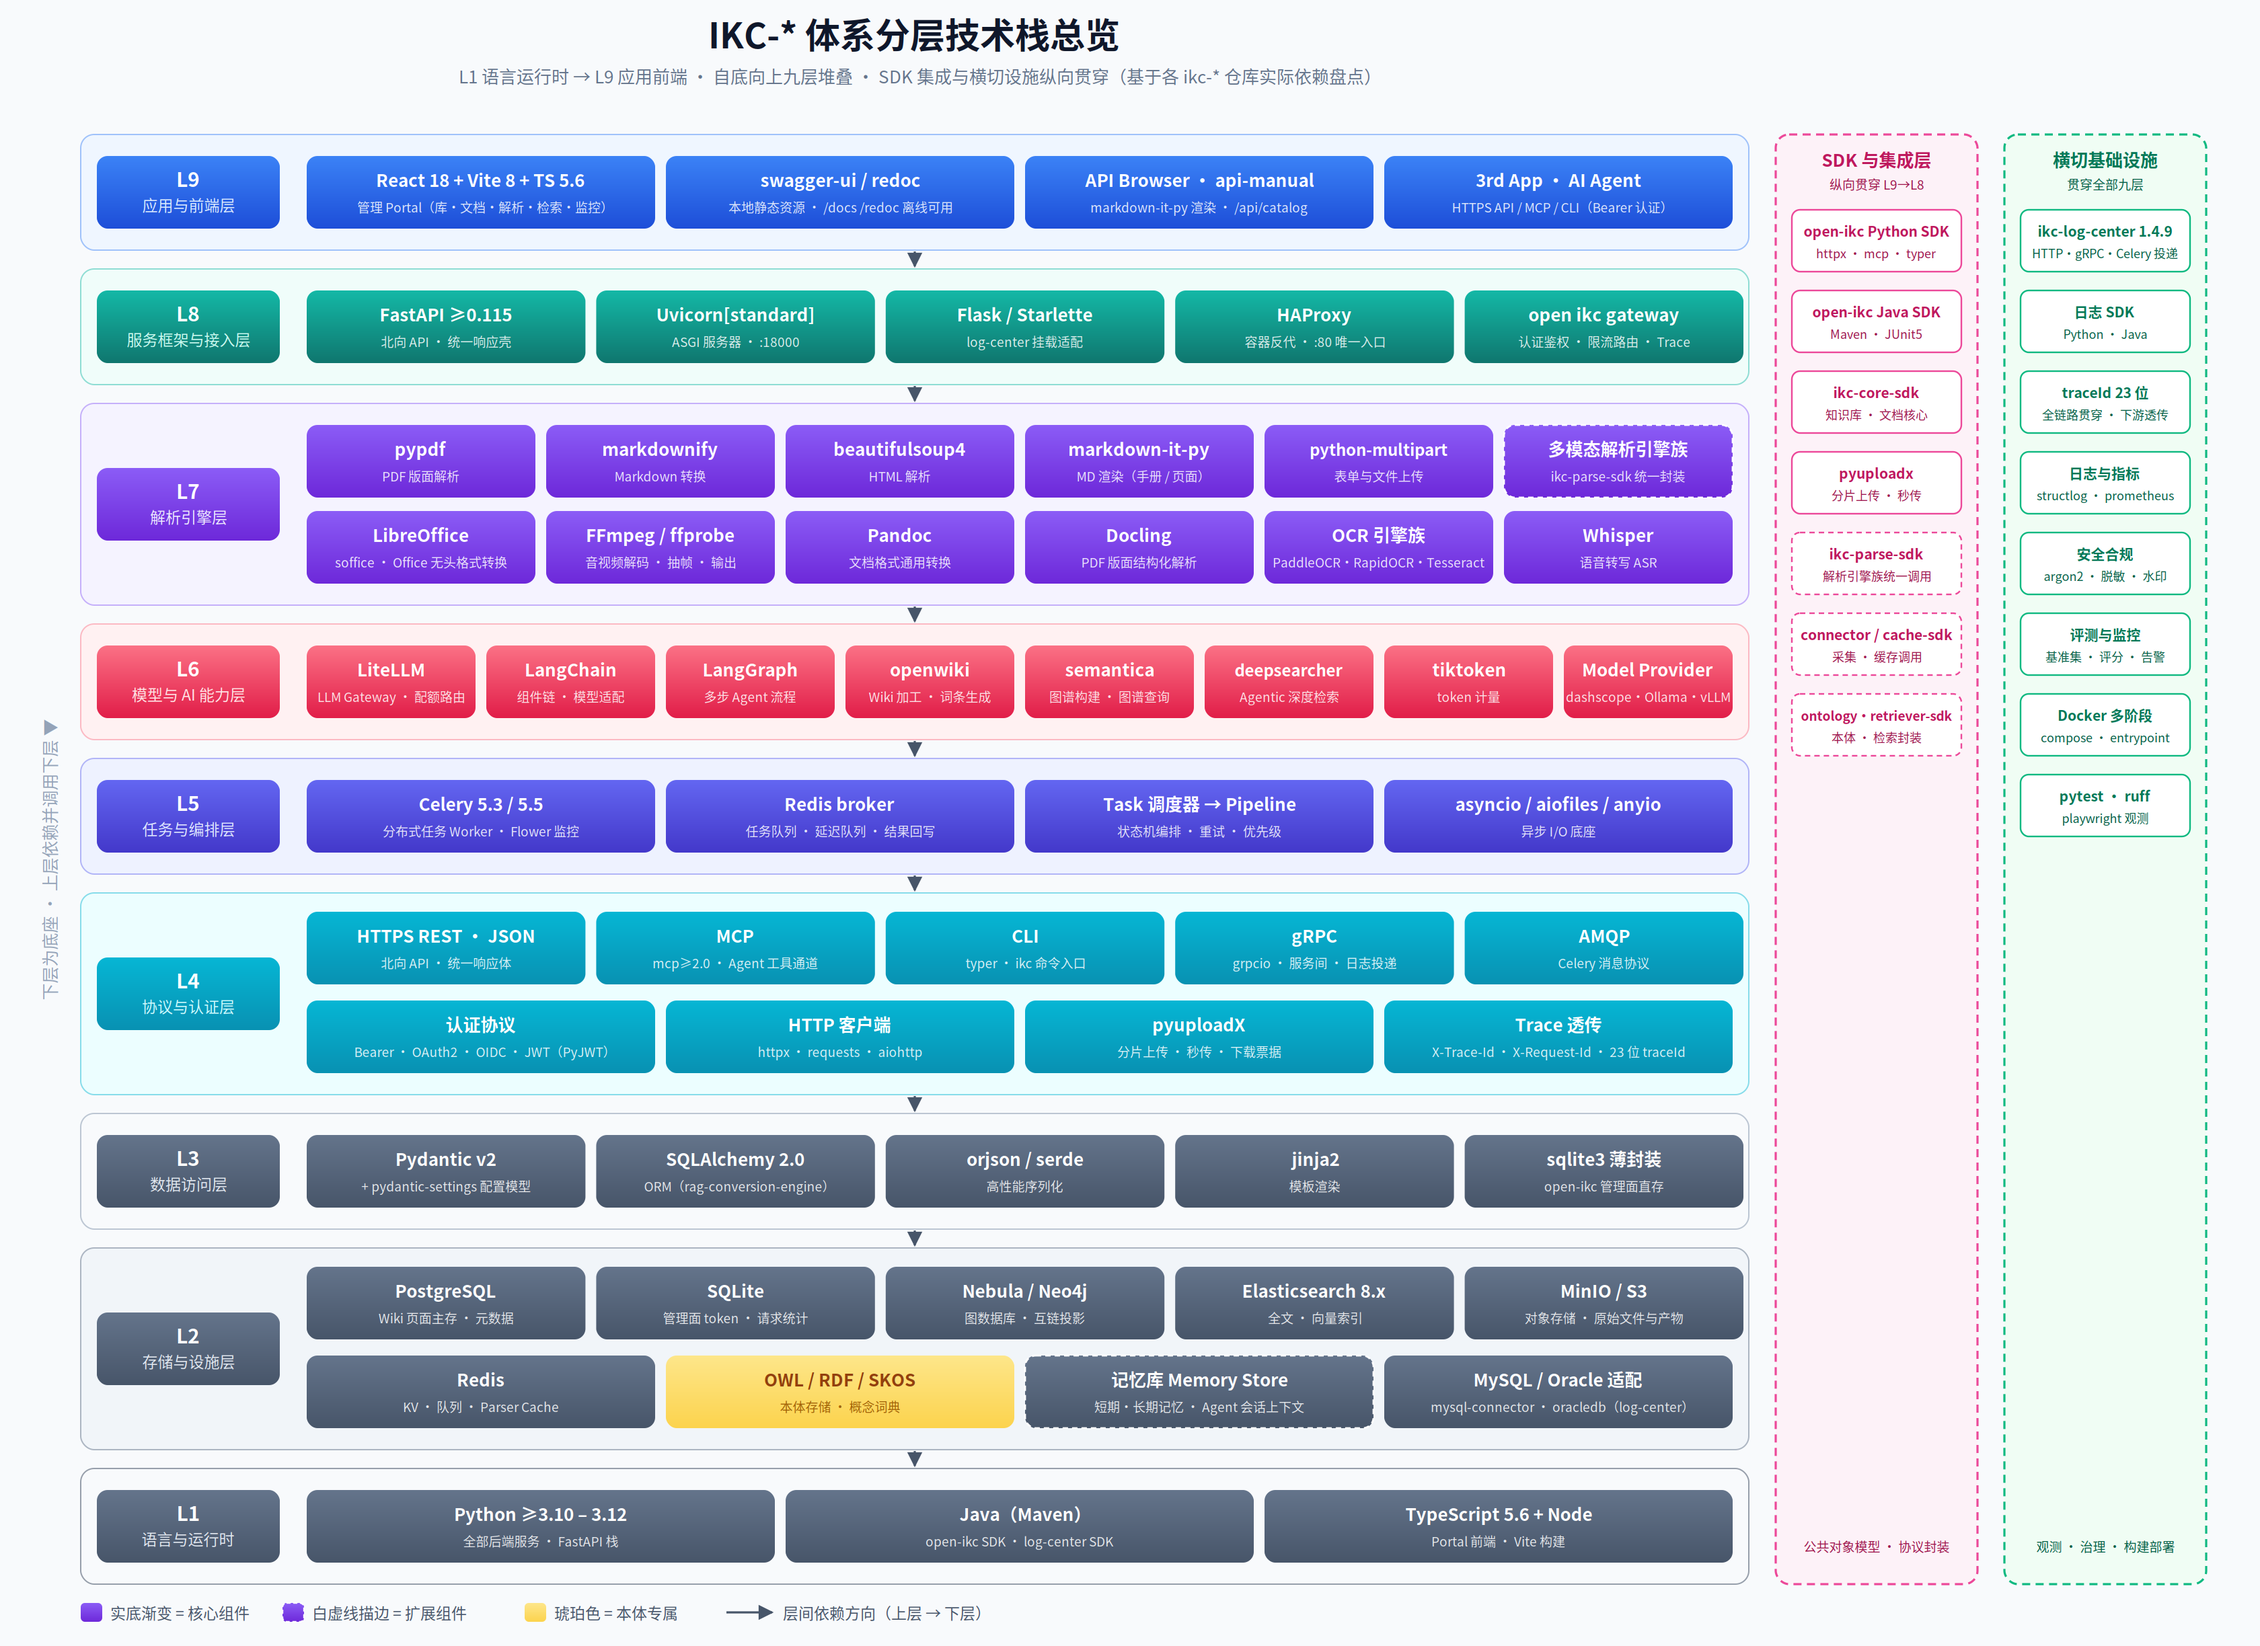
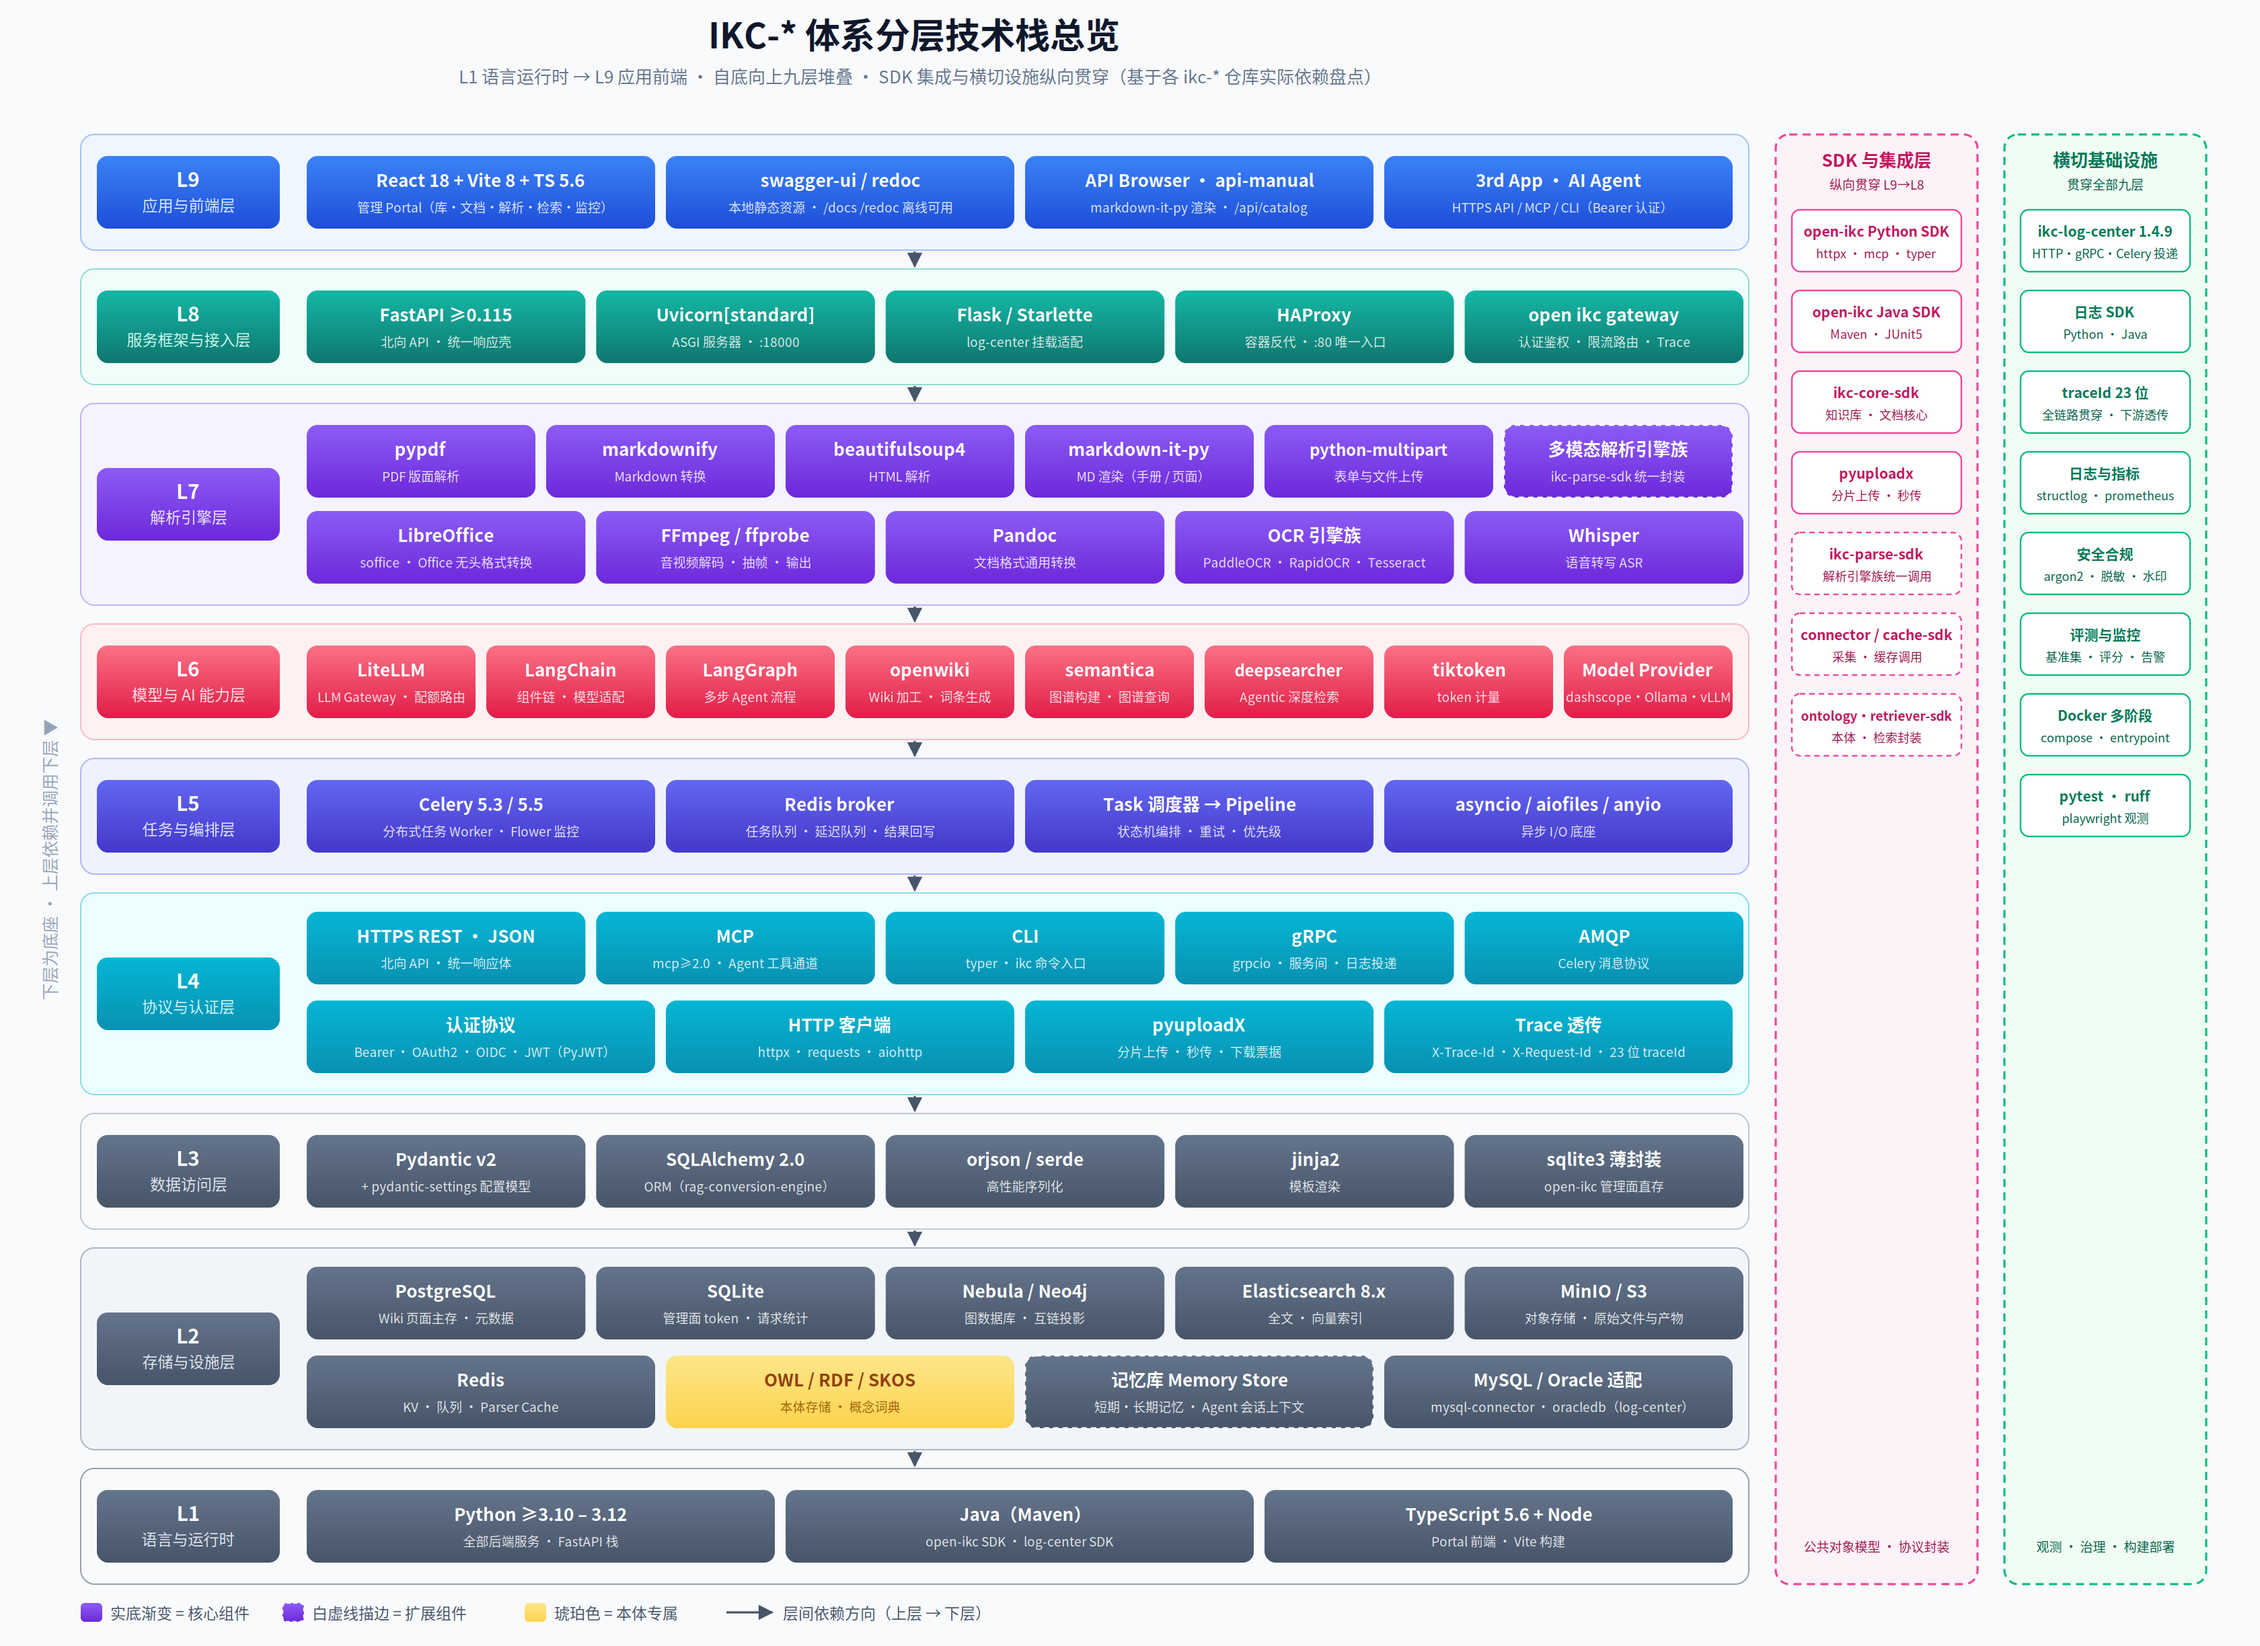
docs: 分层技术栈图 L7 移除 Docling，第三方工具行重排为五列

diff --git a/docs/worklog.md b/docs/worklog.md
@@ -1386,3 +1386,7 @@
 ### 任务：分层技术栈图 L6 换入 openwiki/semantica 并删脚注（2026-10-16 续）
 
 - 删除底部「注：依据…盘点」脚注行；L6 移除 LightRAG chip，新增 openwiki（Wiki 加工 · 词条生成）与 semantica（图谱构建 · 图谱查询），由 7 列回到 8 列布局（w=125.5，与初版 8 列坐标一致）；grep 确认 LightRAG/注：零残留，局部放大渲染无溢出；仅配图改动，跳过 Claude 只读审查。
+
+### 任务：分层技术栈图 L7 移除 Docling（2026-10-16 续）
+
+- L7 下行第三方工具由 6 列改 5 列（w=207.2，x=228/443.2/658.4/873.6/1088.8）：LibreOffice / FFmpeg·ffprobe / Pandoc / OCR 引擎族 / Whisper；grep 确认 docling 零残留，局部放大渲染干净；仅配图改动，跳过 Claude 只读审查。
